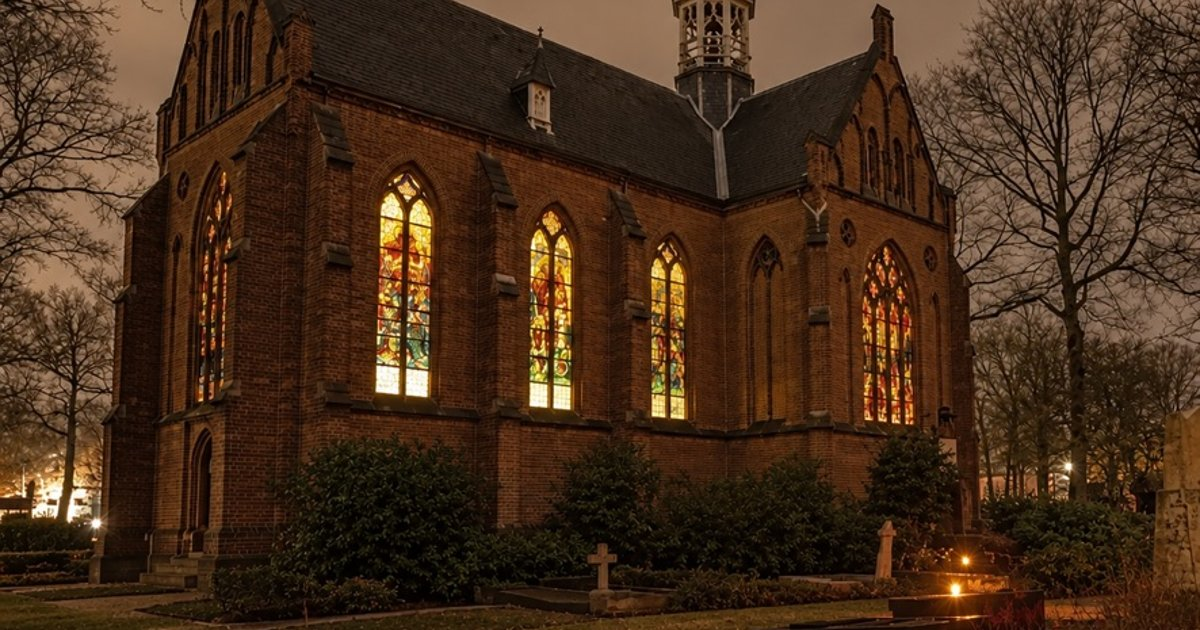
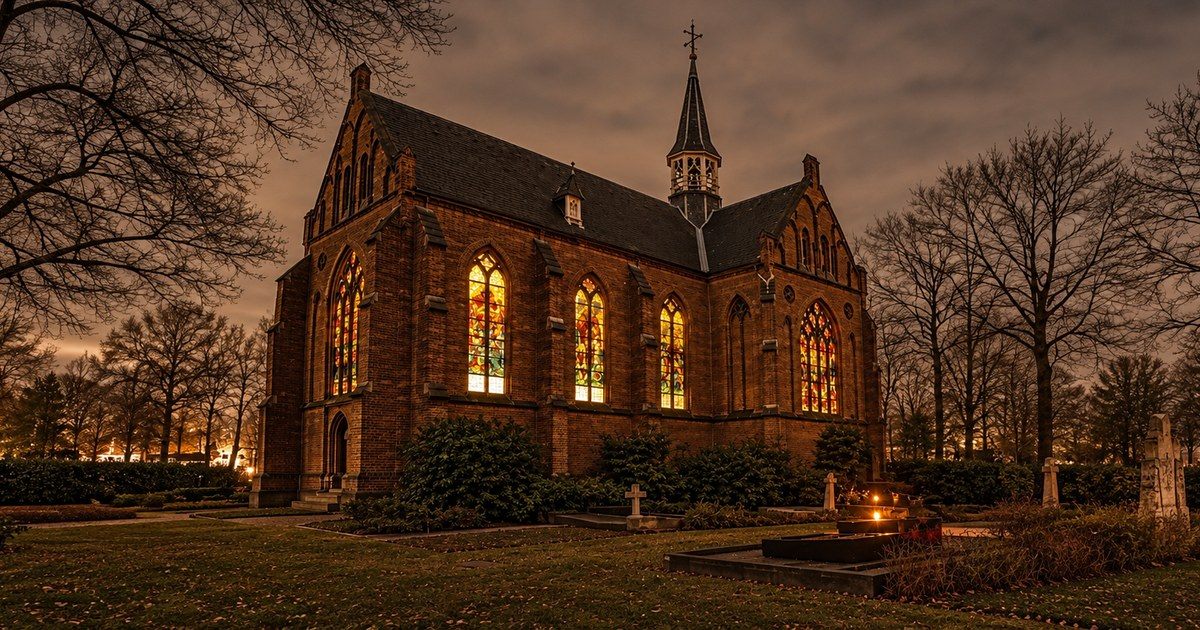
Nieuwe hero-foto en titel, zondag 17.00u

diff --git a/src/components/sections/Hero.tsx b/src/components/sections/Hero.tsx
@@ -16,8 +16,8 @@ export function Hero() {
     >
       <img
         src="/kapel-nacht.jpg"
-        alt="De St Barbarakapel bij nacht, met verlichte glas-in-loodramen"
-        className="absolute inset-0 h-full w-full object-cover object-[center_40%]"
+        alt="De St Barbarakapel bij nacht, met verlichte glas-in-loodramen, tussen de kale bomen van de begraafplaats"
+        className="absolute inset-0 h-full w-full object-cover object-[center_42%]"
         fetchPriority="high"
       />
       <div
@@ -49,12 +49,17 @@ export function Hero() {
       </nav>
 
       <div className="relative mt-auto flex flex-col items-center gap-5 px-6 pb-24 text-center [text-shadow:0_2px_18px_rgba(13,10,8,0.85)]">
-        <h1 className="m-0 font-display text-[clamp(44px,7.5vw,112px)] font-normal leading-[1.05] tracking-[0.16em] text-bone">
-          LATIJNSE MIS
+        <h1 className="m-0 flex flex-col items-center gap-3 font-display font-normal text-bone">
+          <span className="text-[clamp(30px,5.4vw,80px)] leading-[1.05] tracking-[0.16em]">
+            LATIJNSE GEMEENSCHAP
+          </span>
+          <span className="text-[clamp(20px,2.8vw,40px)] leading-[1.1] tracking-[0.22em] text-gold-light">
+            ST BARBARAKAPEL
+          </span>
         </h1>
         <CrossDivider />
         <p className="m-0 font-display text-[clamp(14px,1.4vw,18px)] tracking-[0.24em] text-gold">
-          ST BARBARAKAPEL · UTRECHT
+          ZONDAG 17.00u · UTRECHT
         </p>
         <p className="mt-2 mb-0 max-w-[560px] text-[22px] italic text-text-2">
           De Heilige Mis in de klassieke Latijnse ritus, in een neogotische kapel op de

diff --git a/src/data/misrooster.ts b/src/data/misrooster.ts
@@ -20,25 +20,25 @@ export const komendeMissen: Mis[] = [
     datum: "2026-11-29",
     latijn: "Dominica I Adventus",
     nederlands: "Eerste Zondag van de Advent",
-    tijd: "[TIJD]",
+    tijd: "17.00u",
   },
   {
     datum: "2026-12-06",
     latijn: "Dominica II Adventus",
     nederlands: "Tweede Zondag van de Advent",
-    tijd: "[TIJD]",
+    tijd: "17.00u",
   },
   {
     datum: "2026-12-13",
     latijn: "Dominica III Adventus",
     nederlands: "Zondag Gaudete",
-    tijd: "[TIJD]",
+    tijd: "17.00u",
   },
   {
     datum: "2026-12-20",
     latijn: "Dominica IV Adventus",
     nederlands: "Vierde Zondag van de Advent",
-    tijd: "[TIJD]",
+    tijd: "17.00u",
   },
   {
     datum: "2026-12-24",
@@ -53,7 +53,7 @@ export type VasteTijd = { label: string; tijd: string; toelichting: string };
 export const vasteTijden: VasteTijd[] = [
   {
     label: "Zondag",
-    tijd: "[TIJD]",
+    tijd: "17.00u",
     toelichting: "[Gezongen Mis / Hoogmis]. Biechtgelegenheid vanaf [TIJD] vóór de Mis.",
   },
   {

diff --git a/src/routes/__root.tsx b/src/routes/__root.tsx
@@ -11,9 +11,9 @@ import type { ReactNode } from "react";
 import appCss from "../styles.css?url";
 import { SITE_URL, DEFAULT_OG_IMAGE } from "../lib/site";
 
-const TITLE = "Latijnse Mis — St Barbarakapel Utrecht";
+const TITLE = "Latijnse Gemeenschap St Barbarakapel — Utrecht";
 const DESCRIPTION =
-  "De Heilige Mis in de klassieke Latijnse ritus in de St Barbarakapel, Prinsesselaan 4, Utrecht. Misrooster, route en informatie voor een eerste bezoek.";
+  "De Heilige Mis in de klassieke Latijnse ritus in de St Barbarakapel, Prinsesselaan 4, Utrecht — elke zondag om 17.00u. Misrooster, route en informatie voor een eerste bezoek.";
 
 function Centered({ children }: { children: ReactNode }) {
   return (

diff --git a/src/components/sections/Footer.tsx b/src/components/sections/Footer.tsx
@@ -24,7 +24,7 @@ export function Footer() {
         </a>
       </div>
       <p className="mt-6 mb-0 text-[15px] text-faint">
-        © Latijnse Misgemeenschap St Barbarakapel · Utrecht
+        © Latijnse Gemeenschap St Barbarakapel · Utrecht
       </p>
     </footer>
   );
